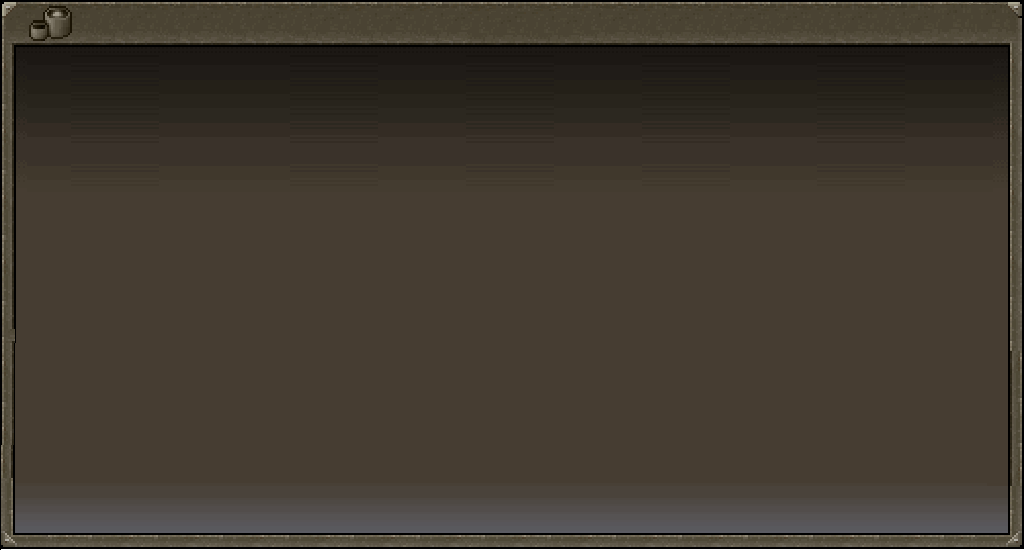
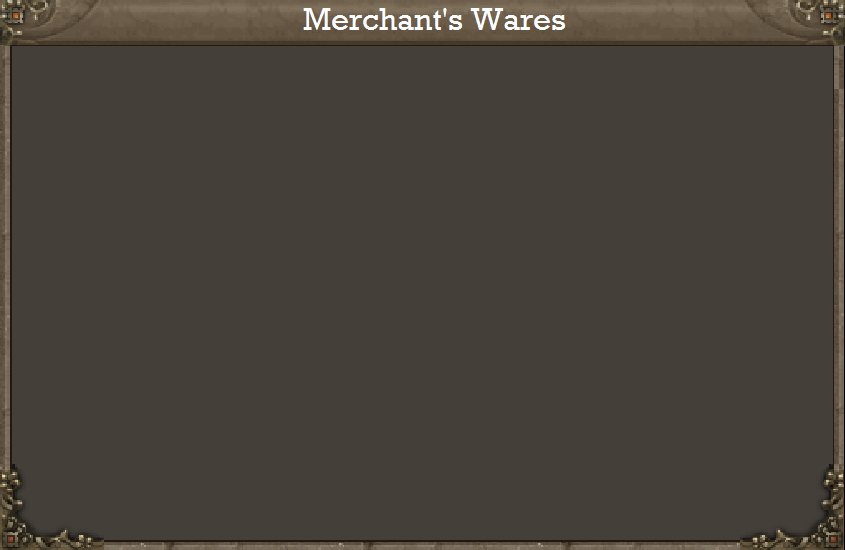
major shop changes to graphics and usability.

Changed region(s): [[0.0, 0.0, 1.0, 1.0]]

diff --git a/src/main/Render.java b/src/main/Render.java
@@ -272,28 +272,32 @@ public class Render implements Runnable {
 			//Draws all the items in inventory
 			g.drawString("Items -", 400, 80);
 			for(int i = 0; i < Main.update.PC.invItems.size(); i++){
-				g.drawImage(Main.update.PC.invItems.get(i).getImage(), 400+(65 * i), 90, 50, 50, null);
+				if(i < 9)
+					g.drawImage(Main.update.PC.invItems.get(i).getImage(), 400+(65 * i), 90, 50, 50, null);
 			}
 			//Draws all the swords in inventory
 			g.drawString("Weapons -", 400, 210);
 			for(int i = 0; i < Main.update.PC.invSwords.size(); i++){
-				g.drawImage(Main.update.PC.invSwords.get(i).getImage(), 400+(65 * i), 220, 50, 50, null);
+				if(i < 9)
+					g.drawImage(Main.update.PC.invSwords.get(i).getImage(), 400+(65 * i), 220, 50, 50, null);
 			}
 			//Draws all the armor in inventory
 			g.drawString("Armor -", 400, 340);
 			for(int i = 0; i < Main.update.PC.invArmor.size(); i++){
-				g.drawImage(Main.update.PC.invArmor.get(i).getImage(), 400+(65 * i), 350, 50, 50, null);
+				if(i < 9)
+					g.drawImage(Main.update.PC.invArmor.get(i).getImage(), 400+(65 * i), 350, 50, 50, null);
 			}
 			//Draws all the Quest Items in inventory
 			g.drawString("Quest -", 400, 470);
 			for(int i = 0; i < Main.update.PC.qItems.size(); i++){
-				g.drawImage(Main.update.PC.qItems.get(i).getImage(), 400+(65 * i), 480, 50, 50, null);
+				if(i < 9)
+					g.drawImage(Main.update.PC.qItems.get(i).getImage(), 400+(65 * i), 480, 50, 50, null);
 			}
 			if(Main.update.drawInvIndx >= 0 && Main.update.drawWhich > 0){
 				if(Main.update.drawWhich == 1){
-					g.setFont(new Font("Rockwell", Font.BOLD, 20));
 					if(!Main.update.PC.invItems.isEmpty()){
 						//System.out.println(Main.update.PC.invItems.size() + " " + Main.update.drawInvIndx);
+						g.setFont(new Font("Rockwell", Font.BOLD, 20));
 						g.drawString(Main.update.PC.invItems.get(Main.update.drawInvIndx).getID(), 400, 590);
 						g.setFont(new Font("Rockwell", Font.PLAIN, 13));
 						g.drawString(Main.update.PC.invItems.get(Main.update.drawInvIndx).getInfo(), 400, 630);
@@ -302,8 +306,8 @@ public class Render implements Runnable {
 					}
 				}
 				else if (Main.update.drawWhich == 2){
-					g.setFont(new Font("Rockwell", Font.BOLD, 20));
 					if(!Main.update.PC.invSwords.isEmpty()){
+						g.setFont(new Font("Rockwell", Font.BOLD, 20));
 						g.drawString(Main.update.PC.invSwords.get(Main.update.drawInvIndx).getID(), 400, 590);
 						g.setFont(new Font("Rockwell", Font.PLAIN, 13));
 						g.drawString(Main.update.PC.invSwords.get(Main.update.drawInvIndx).getInfo(), 400, 630);
@@ -312,8 +316,8 @@ public class Render implements Runnable {
 					}
 				}
 				else if(Main.update.drawWhich == 3){
-					g.setFont(new Font("Rockwell", Font.BOLD, 20));
 					if(!Main.update.PC.invArmor.isEmpty()){
+						g.setFont(new Font("Rockwell", Font.BOLD, 20));
 						g.drawString(Main.update.PC.invArmor.get(Main.update.drawInvIndx).getID(), 400, 590);
 						g.setFont(new Font("Rockwell", Font.PLAIN, 13));
 						g.drawString(Main.update.PC.invArmor.get(Main.update.drawInvIndx).getInfo(), 400, 630);
@@ -360,9 +364,11 @@ public class Render implements Runnable {
 			g.drawImage(dialogueBox, 0, GraphicsMain.HEIGHT - 200, 1024, 200, null);
 			NPC speak = Main.update.speakingWith;
 			g.drawImage(speak.getHead(), 65, GraphicsMain.HEIGHT - 139, 114, 114, null);
+			g.setFont(new Font("Rockwell", Font.BOLD, 16));
 			g.drawString(speak.getName(), 135, GraphicsMain.HEIGHT - 158);
 			g.setColor(Color.black);
 			if(Main.update.commenceDialogue >= 1){
+				g.setFont(new Font("Arial", Font.PLAIN, 13));
 				g.drawString(speak.getPhrase(Main.update.commenceDialogue - 1), 200, GraphicsMain.HEIGHT - 100);
 				if(Main.update.nextDialogue){
 					Main.update.commenceDialogue--;
@@ -413,7 +419,7 @@ public class Render implements Runnable {
 	}
 	
 	private void drawShop(Graphics2D g){
-		g.drawImage(shop,  0, 28, 1024, 550, null);
+		g.drawImage(shop,  100, 28, 845, 550, null);
 		Main.update.shopping = true;
 		LinkedList<Sword> swordShop = Main.update.shopSwords;
 		LinkedList<Item> itemShop = Main.update.shopItems;
@@ -424,13 +430,14 @@ public class Render implements Runnable {
 				if(Main.update.drawInfo){
 					g.setColor(Color.white);
 					//Price
-					g.drawString(swordShop.get(Main.update.drawInfoIndx).getID() + "     Price: " + swordShop.get(Main.update.drawInfoIndx).getValue(),swordShop.get(Main.update.drawInfoIndx).getX() + 200, swordShop.get(Main.update.drawInfoIndx).getY() + 20);
+					g.setFont(new Font("Rockwell", Font.BOLD, 20));
+					g.drawString(swordShop.get(Main.update.drawInfoIndx).getID() + "     Price: " + swordShop.get(Main.update.drawInfoIndx).getValue(),swordShop.get(Main.update.drawInfoIndx).getX() + 150, swordShop.get(Main.update.drawInfoIndx).getY() + 20);
 					//Info
-					g.drawString(swordShop.get(Main.update.drawInfoIndx).getInfo(), swordShop.get(Main.update.drawInfoIndx).getX() + 200, swordShop.get(Main.update.drawInfoIndx).getY() + 45);
+					g.setFont(new Font("Georgia", Font.PLAIN, 18));
+					g.drawString(swordShop.get(Main.update.drawInfoIndx).getInfo(), swordShop.get(Main.update.drawInfoIndx).getX() + 150, swordShop.get(Main.update.drawInfoIndx).getY() + 45);
 					//Flavor Text
 					g.setFont(new Font("Georgia", Font.PLAIN, 14));
-					g.drawString(swordShop.get(Main.update.drawInfoIndx).getDescription(), swordShop.get(Main.update.drawInfoIndx).getX() + 200, swordShop.get(Main.update.drawInfoIndx).getY() + 65);
-					g.setFont(new Font("Georgia", Font.PLAIN, 18));
+					g.drawString(swordShop.get(Main.update.drawInfoIndx).getDescription(), swordShop.get(Main.update.drawInfoIndx).getX() + 150, swordShop.get(Main.update.drawInfoIndx).getY() + 65);
 				}
 			}
 		}
@@ -440,13 +447,14 @@ public class Render implements Runnable {
 				if(Main.update.drawInfo){
 					g.setColor(Color.white);
 					//Price
-					g.drawString(itemShop.get(Main.update.drawInfoIndx).getID() + "     Price: " + itemShop.get(Main.update.drawInfoIndx).getValue(),itemShop.get(Main.update.drawInfoIndx).getX() + 200, itemShop.get(Main.update.drawInfoIndx).getY() + 25);
+					g.setFont(new Font("Rockwell", Font.BOLD, 20));
+					g.drawString(itemShop.get(Main.update.drawInfoIndx).getID() + "     Price: " + itemShop.get(Main.update.drawInfoIndx).getValue(),itemShop.get(Main.update.drawInfoIndx).getX() + 150, itemShop.get(Main.update.drawInfoIndx).getY() + 25);
 					//Info
-					g.drawString(itemShop.get(Main.update.drawInfoIndx).getInfo(), itemShop.get(Main.update.drawInfoIndx).getX() + 200, itemShop.get(Main.update.drawInfoIndx).getY() + 45);
+					g.setFont(new Font("Georgia", Font.PLAIN, 18));
+					g.drawString(itemShop.get(Main.update.drawInfoIndx).getInfo(), itemShop.get(Main.update.drawInfoIndx).getX() + 150, itemShop.get(Main.update.drawInfoIndx).getY() + 45);
 					//Flavor Text
 					g.setFont(new Font("Georgia", Font.PLAIN, 14));
-					g.drawString(itemShop.get(Main.update.drawInfoIndx).getDescription(), itemShop.get(Main.update.drawInfoIndx).getX() + 200, itemShop.get(Main.update.drawInfoIndx).getY() + 65);
-					g.setFont(new Font("Georgia", Font.PLAIN, 18));
+					g.drawString(itemShop.get(Main.update.drawInfoIndx).getDescription(), itemShop.get(Main.update.drawInfoIndx).getX() + 150, itemShop.get(Main.update.drawInfoIndx).getY() + 65);
 				}
 			}
 		}
@@ -456,13 +464,14 @@ public class Render implements Runnable {
 				if(Main.update.drawInfo){
 					g.setColor(Color.white);
 					//Price
-					g.drawString(armorShop.get(Main.update.drawInfoIndx).getID() + "     Price: " + armorShop.get(Main.update.drawInfoIndx).getValue(),armorShop.get(Main.update.drawInfoIndx).getX() + 200, armorShop.get(Main.update.drawInfoIndx).getY() + 25);
+					g.setFont(new Font("Rockwell", Font.BOLD, 20));
+					g.drawString(armorShop.get(Main.update.drawInfoIndx).getID() + "     Price: " + armorShop.get(Main.update.drawInfoIndx).getValue(),armorShop.get(Main.update.drawInfoIndx).getX() + 150, armorShop.get(Main.update.drawInfoIndx).getY() + 25);
 					//Info
-					g.drawString(armorShop.get(Main.update.drawInfoIndx).getInfo(), armorShop.get(Main.update.drawInfoIndx).getX() + 200, armorShop.get(Main.update.drawInfoIndx).getY() + 45);
+					g.setFont(new Font("Georgia", Font.PLAIN, 18));
+					g.drawString(armorShop.get(Main.update.drawInfoIndx).getInfo(), armorShop.get(Main.update.drawInfoIndx).getX() + 150, armorShop.get(Main.update.drawInfoIndx).getY() + 45);
 					//Flavor Text
 					g.setFont(new Font("Georgia", Font.PLAIN, 14));
-					g.drawString(armorShop.get(Main.update.drawInfoIndx).getDescription(), armorShop.get(Main.update.drawInfoIndx).getX() + 200, armorShop.get(Main.update.drawInfoIndx).getY() + 65);
-					g.setFont(new Font("Georgia", Font.PLAIN, 18));
+					g.drawString(armorShop.get(Main.update.drawInfoIndx).getDescription(), armorShop.get(Main.update.drawInfoIndx).getX() + 150, armorShop.get(Main.update.drawInfoIndx).getY() + 65);
 				}
 			}
 		}
@@ -487,8 +496,9 @@ public class Render implements Runnable {
 			g.drawString("Item Purchased!", 420, 60);
 			Main.update.purchased--;
 		}
+		g.setFont(new Font("Rockwell", Font.BOLD, 16));
 		g.setColor(Color.yellow);
-		g.drawString("Gold: " + Main.update.PC.getGold(), GraphicsMain.WIDTH - 140, 60);
+		g.drawString("Gold: " + Main.update.PC.getGold(), GraphicsMain.WIDTH - 260, 60);
 		//Item description
 	}
 	

diff --git a/src/main/Update.java b/src/main/Update.java
@@ -167,7 +167,7 @@ public class Update implements Runnable {
 	}
 	
 	private void init() {
-		mapID = "Frostgorge2";
+		mapID = "Taverly";
 		splashScreenTime = 10;
 		grapple = new Line2D.Double(0,0,0,0);
 		nb = PC.getBoundbox();
@@ -175,6 +175,19 @@ public class Update implements Runnable {
 		playMusic();
 		startTime = System.currentTimeMillis();
 		area = new Area(mapID);
+		shopItems.add(new Item(140, 90, "Cinnamon Pumpkin Pie"));
+		shopItems.add(new Item(140, 180, "Fish Steak"));
+		shopItems.add(new Item(140, 270, "Chocolate Raspberry Cake"));
+		shopItems.add(new Item(140, 360, "Healing Salve"));
+		shopItems.add(new Item(140, 450, "Teleport to Town"));
+		shopArmor.add(new Armor(140, 90, "Plated Armor"));
+		shopArmor.add(new Armor(140, 200, "Tempered Armor"));
+		shopArmor.add(new Armor(140, 310, "Steel Armor"));
+		shopArmor.add(new Armor(140, 420, "Darksteel Armor"));
+		shopSwords.add(new Sword(140, 90, "Iron Sword"));
+		shopSwords.add(new Sword(140, 200, "Katana"));
+		shopSwords.add(new Sword(140, 310, "Steel Sword"));
+		shopSwords.add(new Sword(140, 420, "Serrated Blade"));
 	} 
 	
 	/**
@@ -358,19 +371,6 @@ public class Update implements Runnable {
 	private void spawnMap() {
 		if(mapID == "Taverly" && !NPCsSpawned){
 			NPCsSpawned = true;
-			shopItems.add(new Item(30, 90, "Cinnamon Pumpkin Pie"));
-			shopItems.add(new Item(30, 180, "Fish Steak"));
-			shopItems.add(new Item(30, 270, "Chocolate Raspberry Cake"));
-			shopItems.add(new Item(30, 360, "Healing Salve"));
-			shopItems.add(new Item(30, 450, "Teleport to Town"));
-			shopArmor.add(new Armor(30, 90, "Plated Armor"));
-			shopArmor.add(new Armor(30, 200, "Tempered Armor"));
-			shopArmor.add(new Armor(30, 310, "Steel Armor"));
-			shopArmor.add(new Armor(30, 420, "Darksteel Armor"));
-			shopSwords.add(new Sword(30, 90, "Iron Sword"));
-			shopSwords.add(new Sword(30, 200, "Katana"));
-			shopSwords.add(new Sword(30, 310, "Steel Sword"));
-			shopSwords.add(new Sword(30, 420, "Serrated Blade"));
 			NPCs = area.getNPCs();
 		}
 		else{
